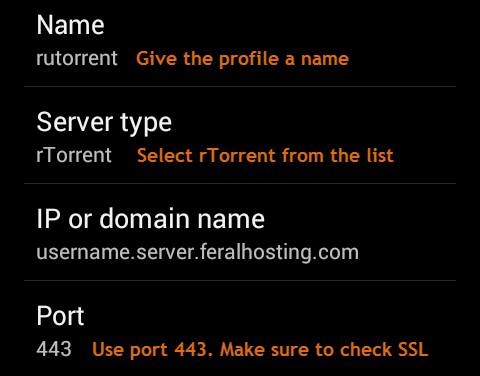
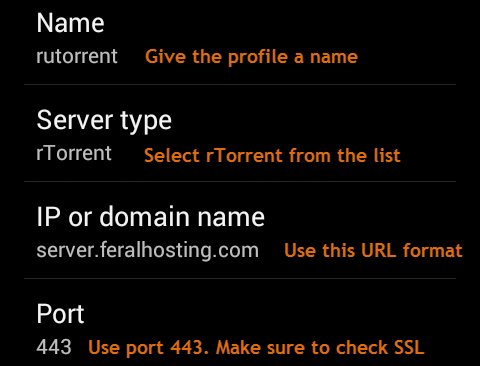
images

diff --git a/Feral Wiki/Other software/Using Transdroid to Control rTorrent - Deluge - Transmission From Your Android Phone/readme.md b/Feral Wiki/Other software/Using Transdroid to Control rTorrent - Deluge - Transmission From Your Android Phone/readme.md
@@ -3,27 +3,25 @@
 
 [Transdroid-desktop](http://code.google.com/p/transdroid-desktop/) can be used on your computer to control rtorrent(Cross-platform).
 
-Upon installing, you will be presented with a screen explaining that you need to open the settings menu. Do so.
-
 ![](https://raw.github.com/feralhosting/feralfilehosting/master/Feral%20Wiki/Other%20software/Using%20Transdroid%20to%20Control%20rTorrent%20-%20Deluge%20-%20Transmission%20From%20Your%20Android%20Phone/1.png)
 
 ### Rutorrent
 
-**Important note:** To use transdroid with rutorrent/rtorrent you are required to
+**Important note:** To use transdroid with rutorrent/rtorrent you are required to:
 
-1: Have rutorrent/rtorrent installed already
+**1:** Have rutorrent/rtorrent installed already via the Software Install page for the relevant slot.
 
-2: Then [update to nginx using this FAQ](https://www.feralhosting.com/faq/view?question=231). Once you have done that, use this information below to use transdroid to connect to rtorrent.
+**2:** Then [update to nginx using this FAQ](https://www.feralhosting.com/faq/view?question=231). Once you have done that, use this information below to use transdroid to connect to rtorrent.
 
-Click `Add new server`.
+Open Transdroid on your device and open the settings, then click on `Add new server`.
 
 **Name:** Can be anything you want, such as `feral`
 
 **Server type:** rtorrent
 
-**Host:** `username.server.feralhosting.com` (server is the servername of your slot)
+**Set IP/domain:** `server.feralhosting.com` (server is the servername of your slot)
 
-**Port:** `80` ( `443` can be used if you check `SSL` and `accept all certs` )
+**Port:** `443`
 
 ![](https://raw.github.com/feralhosting/feralfilehosting/master/Feral%20Wiki/Other%20software/Using%20Transdroid%20to%20Control%20rTorrent%20-%20Deluge%20-%20Transmission%20From%20Your%20Android%20Phone/rutorrent/rutorrent.host.png)
 
@@ -49,25 +47,29 @@ Click `Add new server`.
 
 ### Deluge
 
-Set IP/domain to: 
+**Important note:** To use transdroid with Deluge you are required to:
 
-~~~
-server.feralhosting.com
-~~~
+**1:** Have Deluge installed already via the Software Install page for the relevant slot.
+
+**2::** Log into the WebUi to connect the WebUi to the daemon process.
+
+Open Transdroid on your device and open the settings, then click on `Add new server`.
+
+**Set IP/domain:** `server.feralhosting.com` (server is the servername of your slot)
 
 **Port:** `443`
 
 ![](https://raw.github.com/feralhosting/feralfilehosting/master/Feral%20Wiki/Other%20software/Using%20Transdroid%20to%20Control%20rTorrent%20-%20Deluge%20-%20Transmission%20From%20Your%20Android%20Phone/deluge/deluge.host.png)
 
-**Deluge Web Password:** your Web Gui password from your Slot Details page. (Not to be confused with require Authentication) 
+**Deluge Web Password:** your Web Gui password from your Slot Details page. (Not to be confused with Require Authentication option) 
 
 ![](https://raw.github.com/feralhosting/feralfilehosting/master/Feral%20Wiki/Other%20software/Using%20Transdroid%20to%20Control%20rTorrent%20-%20Deluge%20-%20Transmission%20From%20Your%20Android%20Phone/deluge/deluge.webpass.png)
 
-**Folder:** `/username/deluge`
+**Folder:** `/username/deluge` (username is your Feral username)
+
+You need the `/` at the beginning and no trailing slash.
 
 ![](https://raw.github.com/feralhosting/feralfilehosting/master/Feral%20Wiki/Other%20software/Using%20Transdroid%20to%20Control%20rTorrent%20-%20Deluge%20-%20Transmission%20From%20Your%20Android%20Phone/deluge/deluge.folder.png)
-
-The important one is the Folder field. You need the `/` at the beginning and no trailing slash.
 
 **Server OS:** `Linux`
 
